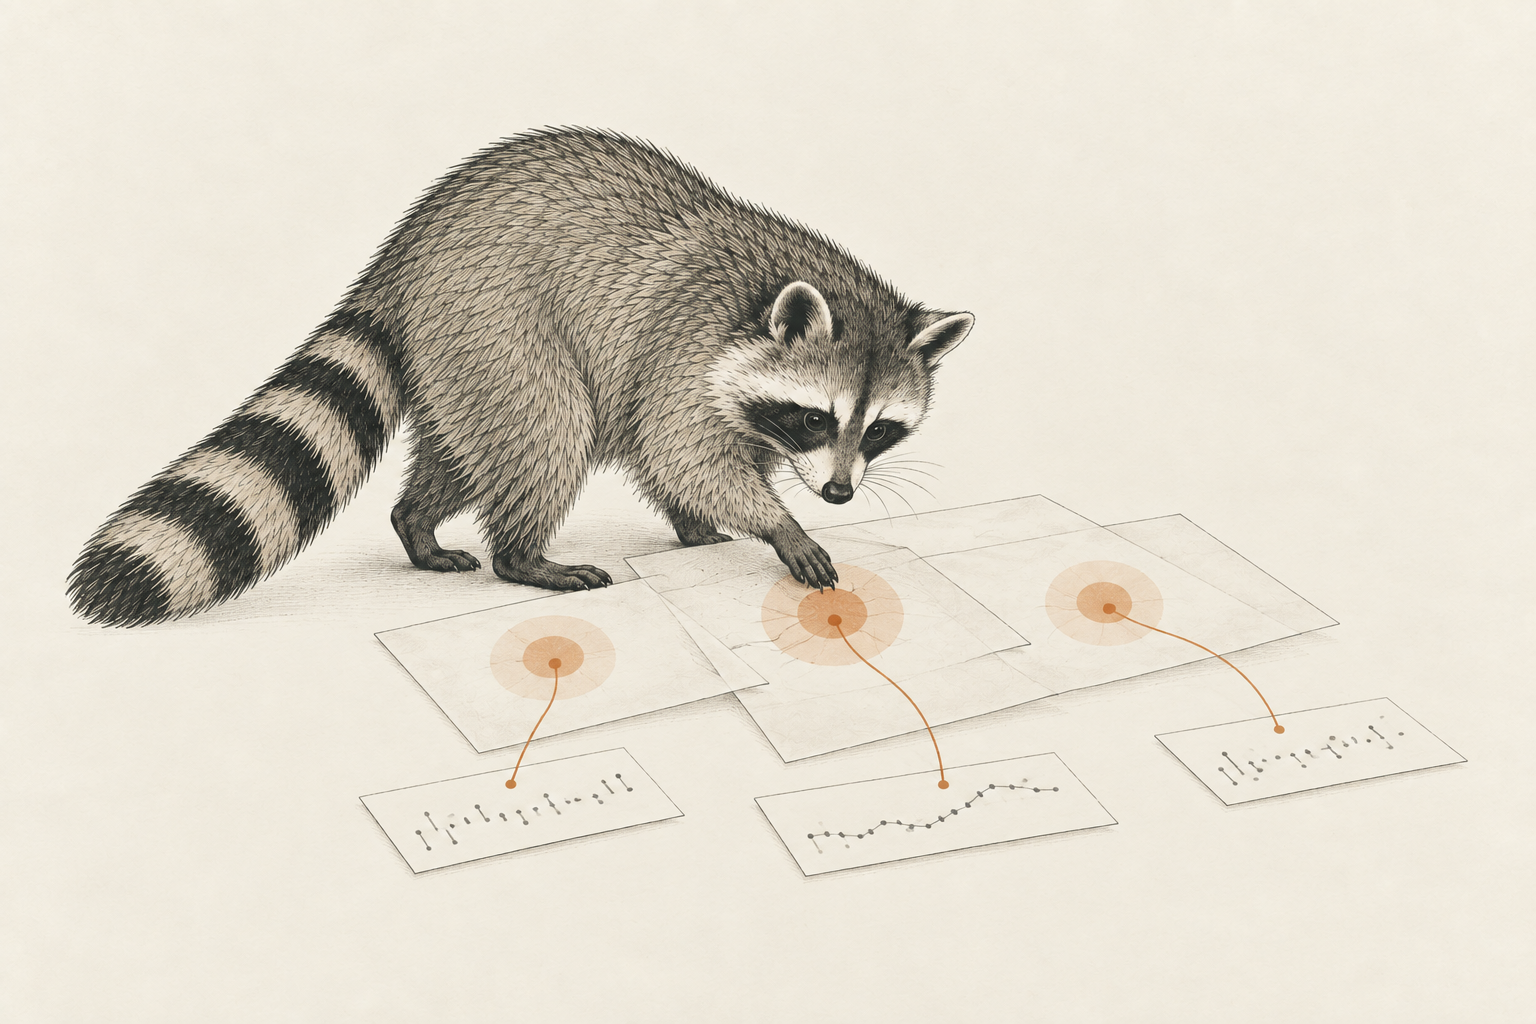
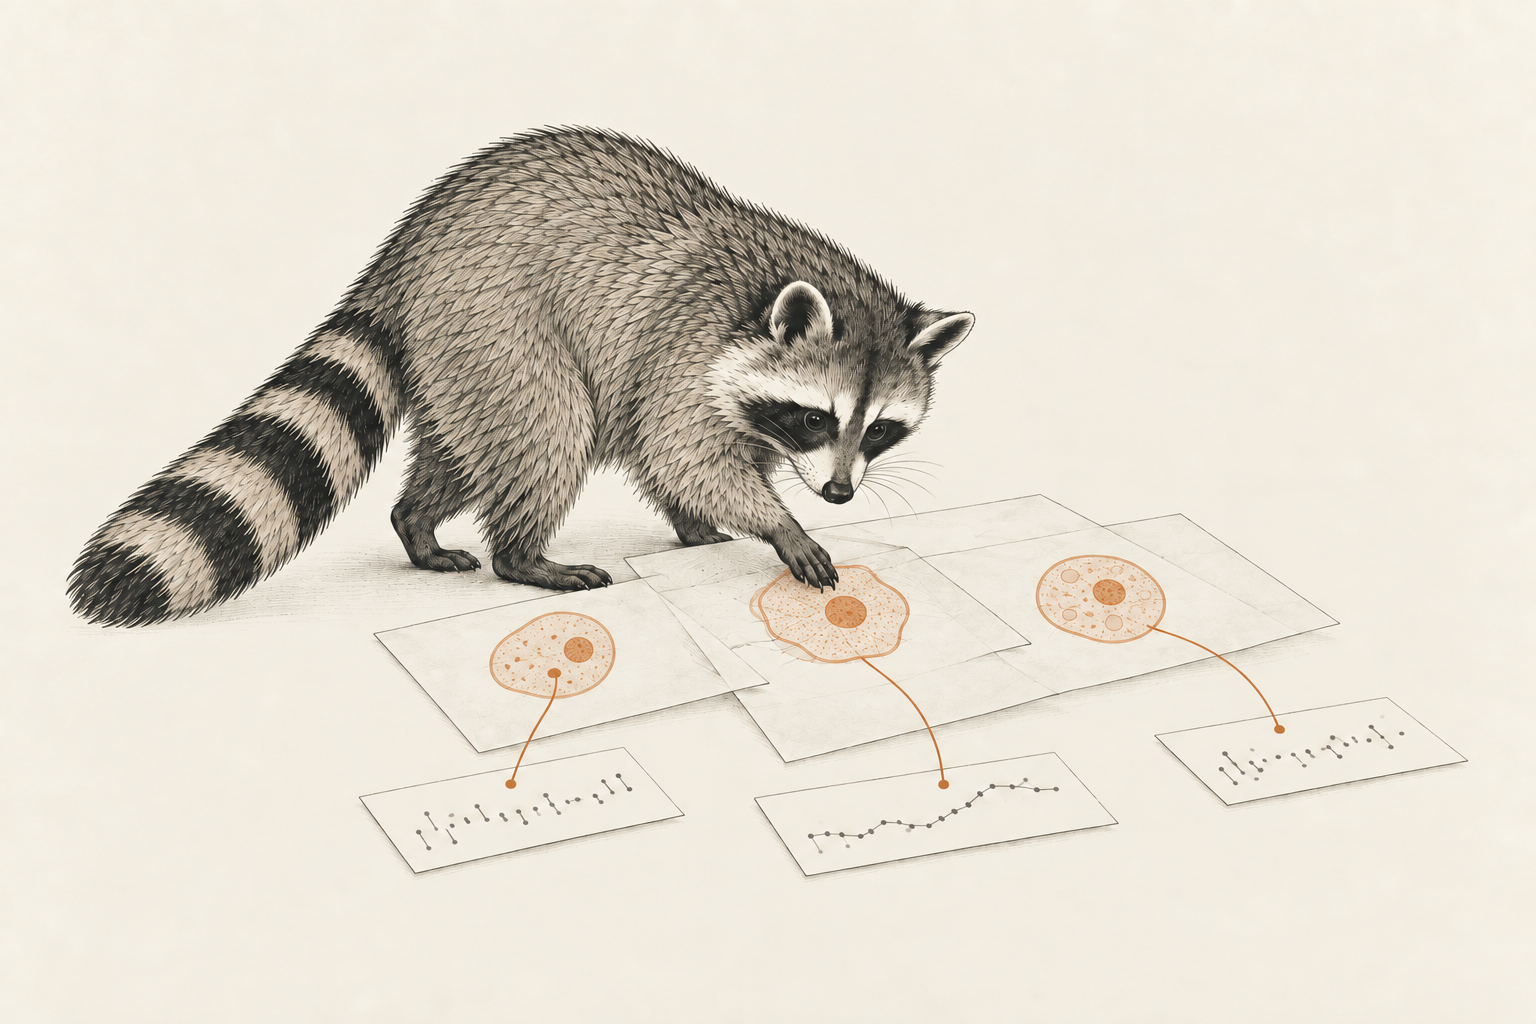
Refine Csim cover with cell schematics

Changed region(s): [[0.0312, 0.125, 0.625, 0.6875], [0.6562, 0.5312, 0.7812, 0.625]]

diff --git a/src/content/research.js b/src/content/research.js
@@ -6,7 +6,7 @@ export const RESEARCH_ART = {
   logs: { file: "raccoon-inspection.png", alt: "A seated raccoon examining an ochre stone between its front paws." },
   replay: { file: "raccoon-looking-back.png", alt: "A raccoon pausing to look back over its shoulder, its ringed tail curving behind it." },
   dream: { file: "dream-rsi-replay.png", alt: "A raccoon examines overlapping drawings of a branching search tree, with one recorded route traced in ochre." },
-  cells: { file: "virtual-cell-evidence.png", alt: "An ink-drawn raccoon studies three abstract virtual cells, each connected to a small recorded trace." },
+  cells: { file: "virtual-cell-evidence.png", alt: "An ink-drawn raccoon studies three schematic cells with visible nuclei, each connected to a recorded trace." },
 };
 
 export const RESEARCH_POSTS = [
